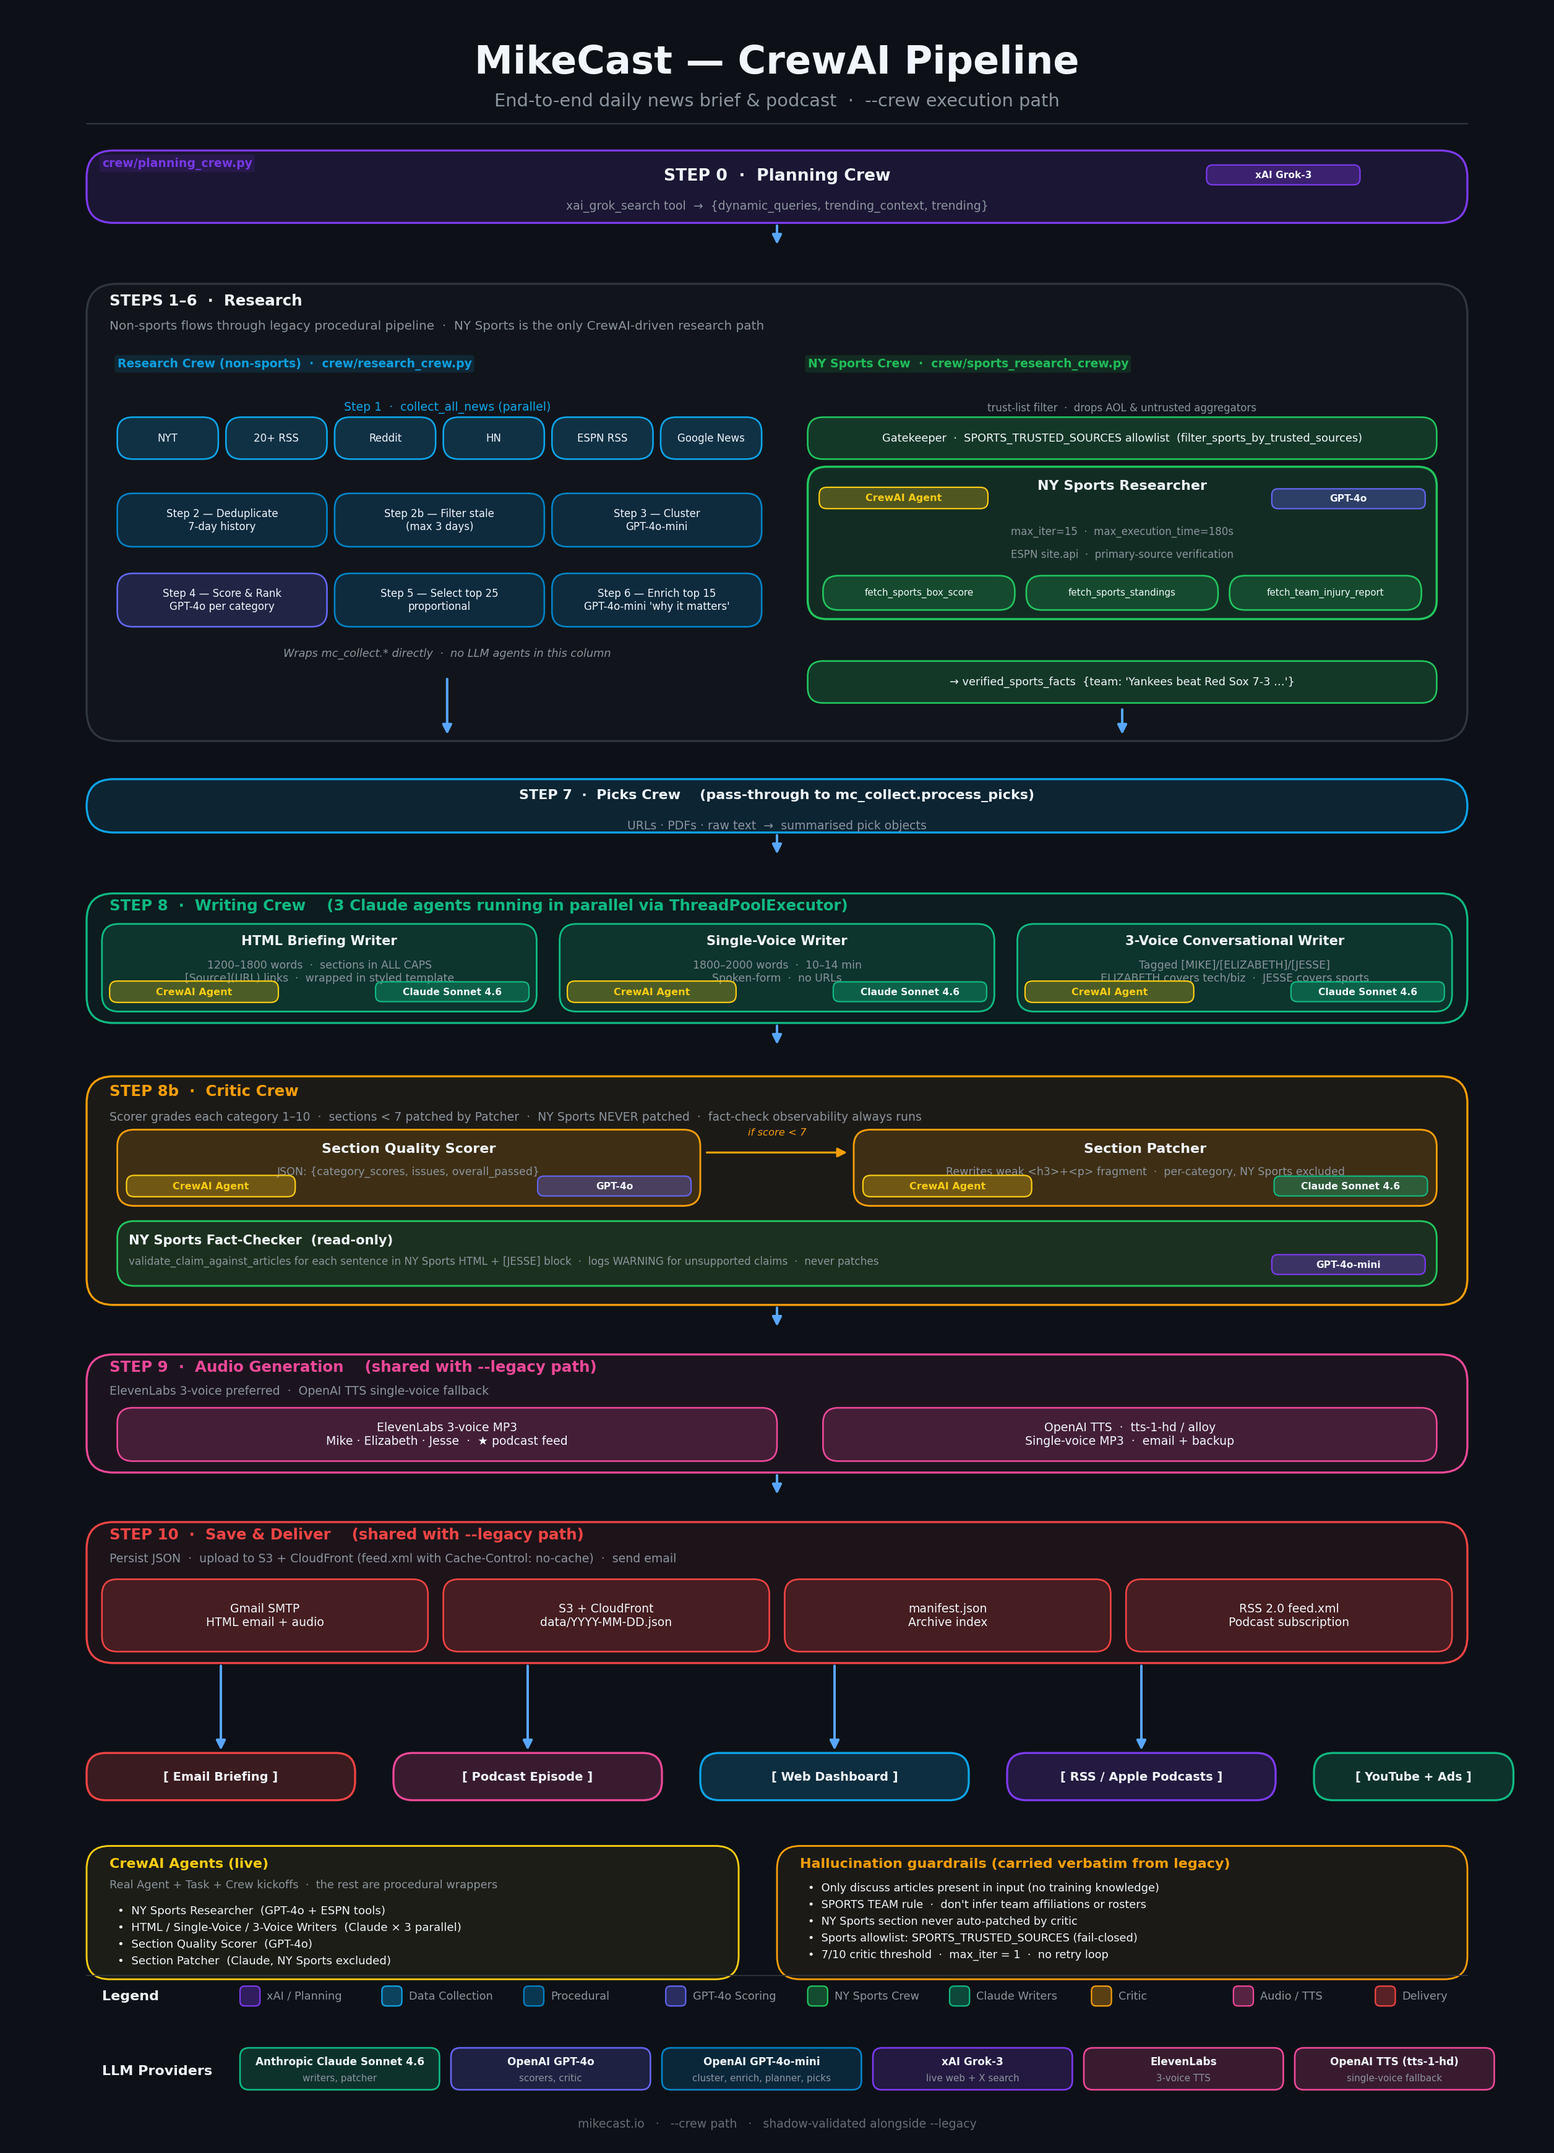
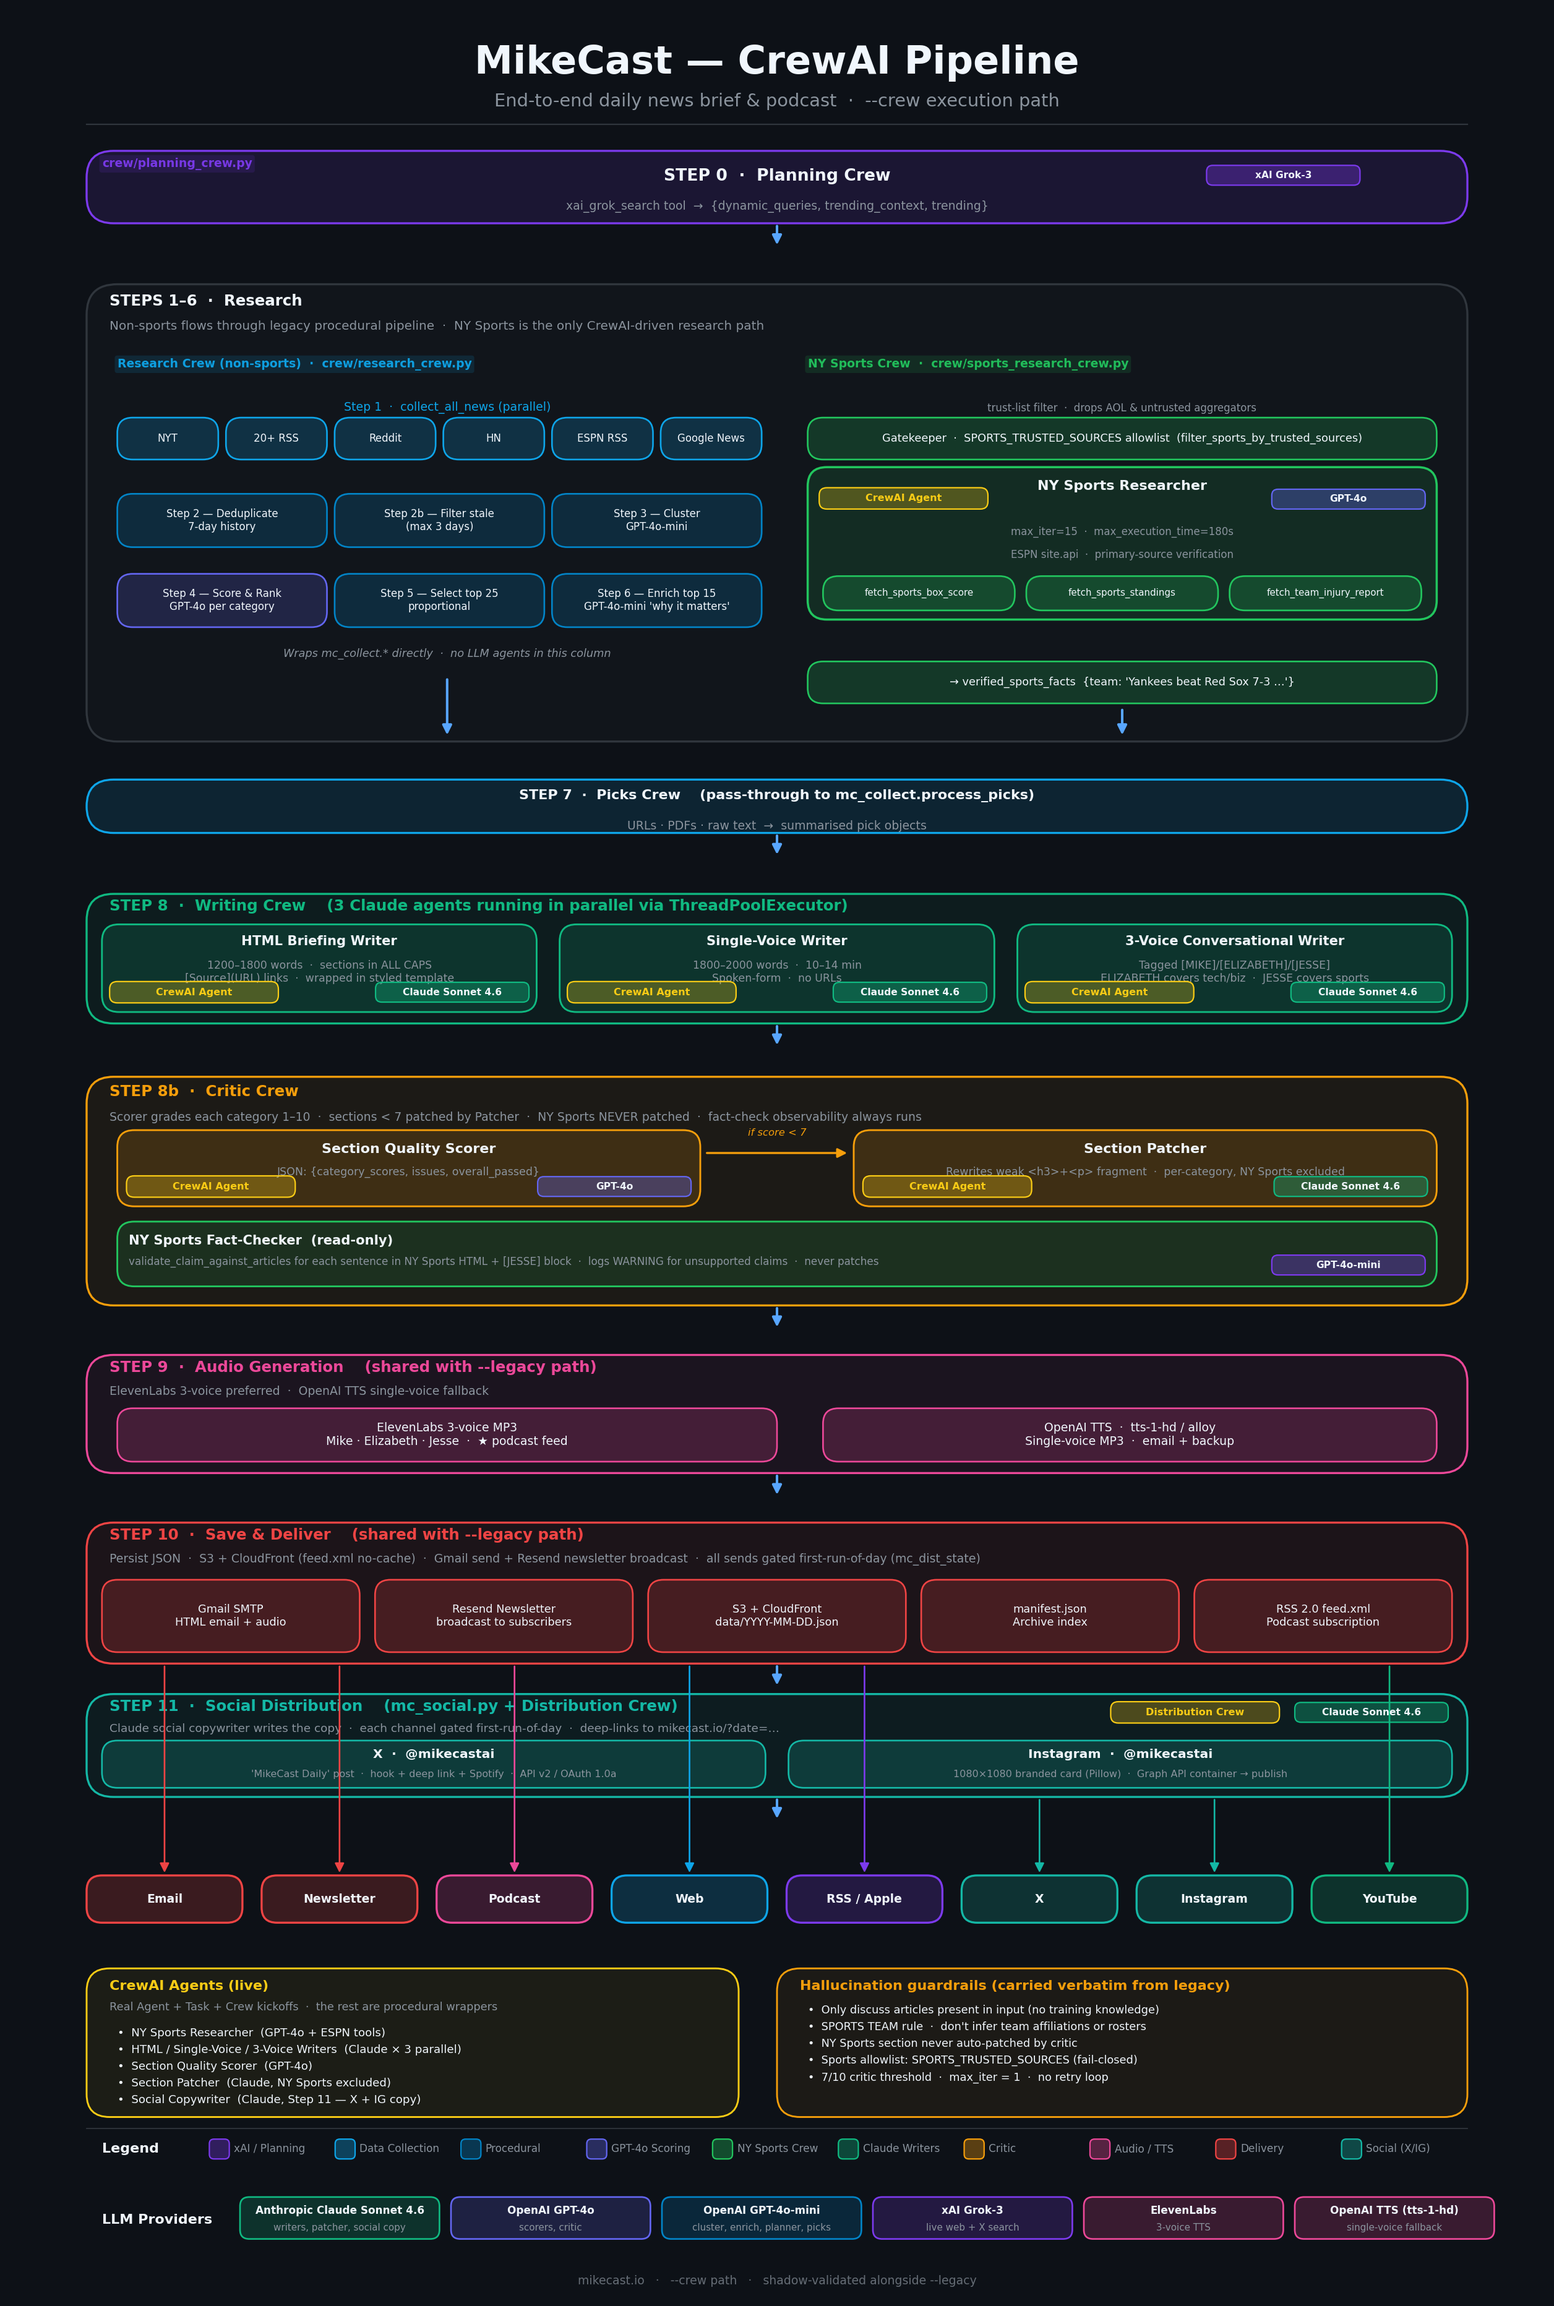
diagram: add Step 11 Social Distribution + Resend newsletter to CrewAI architecture
Regenerate mikecast_crewai_architecture.png: add the Step 11 Social Distribution
band (X + Instagram via the Distribution Crew / Claude copywriter), a Resend
Newsletter delivery box + first-run-of-day gating note on Step 10, X/Instagram
output chips, the Social Copywriter in the live-agents sidebar, a Social legend
entry, and the updated Claude provider role. Canvas extended for the new band.

diff --git a/make_crew_diagram.py b/make_crew_diagram.py
@@ -23,12 +23,14 @@ C_MUTED     = "#8b949e"
 C_WHITE     = "#f0f6fc"
 C_ARROW     = "#58a6ff"
 
-FIG_W, FIG_H = 20, 28
+C_SOCIAL    = "#14b8a6"   # teal    – social distribution (X + Instagram)
+
+FIG_W, FIG_H = 20, 30
 
 fig, ax = plt.subplots(figsize=(FIG_W, FIG_H), facecolor=BG)
 ax.set_facecolor(BG)
 ax.set_xlim(0, FIG_W)
-ax.set_ylim(0, FIG_H)
+ax.set_ylim(-2, 28)   # extra room at the bottom for Step 11 + repacked footer
 ax.axis("off")
 
 
@@ -427,62 +429,99 @@ ax.text(1.3, Y10 + del_h - 0.22,
         "STEP 10  ·  Save & Deliver    (shared with --legacy path)",
         fontsize=11, fontweight="bold", color=C_DELIVER, zorder=4)
 ax.text(1.3, Y10 + del_h - 0.52,
-        "Persist JSON  ·  upload to S3 + CloudFront (feed.xml with Cache-Control: no-cache)  ·  send email",
+        "Persist JSON  ·  S3 + CloudFront (feed.xml no-cache)  ·  Gmail send + Resend newsletter broadcast  ·  all sends gated first-run-of-day (mc_dist_state)",
         fontsize=8.5, color=C_MUTED, zorder=4)
 
 dels = [
     ("Gmail SMTP\nHTML email + audio", C_DELIVER),
+    ("Resend Newsletter\nbroadcast to subscribers", C_DELIVER),
     ("S3 + CloudFront\ndata/YYYY-MM-DD.json", C_DELIVER),
     ("manifest.json\nArchive index", C_DELIVER),
     ("RSS 2.0 feed.xml\nPodcast subscription", C_DELIVER),
 ]
-dw = (18 - 0.4 - 0.2 * 3) / 4
+dw = (18 - 0.4 - 0.2 * 4) / 5
 for i, (lbl, col) in enumerate(dels):
-    small_box(1.2 + i * (dw + 0.2), Y10 + 0.15, dw, 0.95, col, lbl, fontsize=8.5)
+    small_box(1.2 + i * (dw + 0.2), Y10 + 0.15, dw, 0.95, col, lbl, fontsize=8.0)
+
+arrow(FIG_W / 2, Y10, FIG_W / 2, Y10 - 0.32)
 
 
 # ══════════════════════════════════════════════════════════════════════════════
-# Final outputs
+# STEP 11 — Social Distribution (X + Instagram)
 # ══════════════════════════════════════════════════════════════════════════════
-Yout = 4.5
+Y11 = 4.55
+soc_h = 1.35
+rect = FancyBboxPatch(
+    (1.0, Y11), 18, soc_h,
+    boxstyle="round,pad=0,rounding_size=0.35",
+    linewidth=1.5, edgecolor=C_SOCIAL, facecolor=f"{C_SOCIAL}11", zorder=2,
+)
+ax.add_patch(rect)
+ax.text(1.3, Y11 + soc_h - 0.22,
+        "STEP 11  ·  Social Distribution    (mc_social.py + Distribution Crew)",
+        fontsize=11, fontweight="bold", color=C_SOCIAL, zorder=4)
+ax.text(1.3, Y11 + soc_h - 0.50,
+        "Claude social copywriter writes the copy  ·  each channel gated first-run-of-day  ·  deep-links to mikecast.io/?date=…",
+        fontsize=8.3, color=C_MUTED, zorder=4)
+
+# X + Instagram channel boxes
+socw = (18 - 0.4 - 0.3) / 2
+sxb = 1.2
+for i, (title, sub) in enumerate([
+    ("X  ·  @mikecastai", "'MikeCast Daily' post  ·  hook + deep link + Spotify  ·  API v2 / OAuth 1.0a"),
+    ("Instagram  ·  @mikecastai", "1080×1080 branded card (Pillow)  ·  Graph API container → publish"),
+]):
+    bx = sxb + i * (socw + 0.3)
+    by = Y11 + 0.12
+    small_box(bx, by, socw, 0.62, C_SOCIAL, "", fontsize=8)
+    ax.text(bx + socw / 2, by + 0.44, title,
+            ha="center", va="center", fontsize=9.2, fontweight="bold",
+            color=C_WHITE, zorder=6)
+    ax.text(bx + socw / 2, by + 0.18, sub,
+            ha="center", va="center", fontsize=7.2, color=C_MUTED, zorder=6)
+agent_badge(14.35, Y11 + soc_h - 0.38, "Distribution Crew")
+llm_badge(16.75, Y11 + soc_h - 0.37, "Claude Sonnet 4.6", C_GENERATE)
+
+arrow(FIG_W / 2, Y11, FIG_W / 2, Y11 - 0.32)
+
+
+# ══════════════════════════════════════════════════════════════════════════════
+# Final outputs (all channels)
+# ══════════════════════════════════════════════════════════════════════════════
+Yout = 2.9
 outs = [
-    (1.0,  "[ Email Briefing ]",     C_DELIVER),
-    (5.0,  "[ Podcast Episode ]",    C_AUDIO),
-    (9.0,  "[ Web Dashboard ]",      C_COLLECT),
-    (13.0, "[ RSS / Apple Podcasts ]", C_XAI),
+    ("Email",       C_DELIVER),
+    ("Newsletter",  C_DELIVER),
+    ("Podcast",     C_AUDIO),
+    ("Web",         C_COLLECT),
+    ("RSS / Apple", C_XAI),
+    ("X",           C_SOCIAL),
+    ("Instagram",   C_SOCIAL),
+    ("YouTube",     C_GENERATE),
 ]
-for x, lbl, col in outs:
-    arrow(x + 1.75, Y10, x + 1.75, Yout + 0.62)
-    w = 3.5
+n_out = len(outs)
+gap = 0.25
+ow = (18 - gap * (n_out - 1)) / n_out
+for i, (lbl, col) in enumerate(outs):
+    x = 1.0 + i * (ow + gap)
+    src_y = Y11 if col == C_SOCIAL else Y10
+    arrow(x + ow / 2, src_y, x + ow / 2, Yout + 0.62, color=f"{col}", lw=1.2)
     rect = FancyBboxPatch(
-        (x, Yout), w, 0.62,
-        boxstyle="round,pad=0,rounding_size=0.25",
+        (x, Yout), ow, 0.62,
+        boxstyle="round,pad=0,rounding_size=0.2",
         linewidth=1.5, edgecolor=col, facecolor=f"{col}33", zorder=3,
     )
     ax.add_patch(rect)
-    ax.text(x + w / 2, Yout + 0.31, lbl,
-            ha="center", va="center", fontsize=8.8, fontweight="bold",
+    ax.text(x + ow / 2, Yout + 0.31, lbl,
+            ha="center", va="center", fontsize=8.5, fontweight="bold",
             color=C_WHITE, zorder=4)
-
-# YouTube/social (separate downstream)
-x = 17.0
-w = 2.6
-rect = FancyBboxPatch(
-    (x, Yout), w, 0.62,
-    boxstyle="round,pad=0,rounding_size=0.25",
-    linewidth=1.5, edgecolor=C_GENERATE, facecolor=f"{C_GENERATE}33", zorder=3,
-)
-ax.add_patch(rect)
-ax.text(x + w / 2, Yout + 0.31, "[ YouTube + Ads ]",
-        ha="center", va="center", fontsize=8.5, fontweight="bold",
-        color=C_WHITE, zorder=4)
 
 
 # ══════════════════════════════════════════════════════════════════════════════
 # Sidebar: where the real CrewAI agents live
 # ══════════════════════════════════════════════════════════════════════════════
-Ysb_top = 3.9
-sb_h = 1.75
+Ysb_top = 2.3
+sb_h = 1.95
 rect = FancyBboxPatch(
     (1.0, Ysb_top - sb_h), 8.5, sb_h,
     boxstyle="round,pad=0,rounding_size=0.3",
@@ -500,6 +539,7 @@ live_agents = [
     "•  HTML / Single-Voice / 3-Voice Writers  (Claude × 3 parallel)",
     "•  Section Quality Scorer  (GPT-4o)",
     "•  Section Patcher  (Claude, NY Sports excluded)",
+    "•  Social Copywriter  (Claude, Step 11 — X + IG copy)",
 ]
 for i, line in enumerate(live_agents):
     ax.text(1.4, Ysb_top - 0.85 - i * 0.22, line,
@@ -531,7 +571,7 @@ for i, line in enumerate(inv):
 # ══════════════════════════════════════════════════════════════════════════════
 # Legend
 # ══════════════════════════════════════════════════════════════════════════════
-Yleg = 1.65
+Yleg = -0.35
 ax.plot([1, 19], [Yleg + 0.55, Yleg + 0.55], color=BORDER, lw=0.8, zorder=3)
 ax.text(1.2, Yleg + 0.28, "Legend",
         ha="left", va="center", fontsize=10, fontweight="bold", color=C_WHITE)
@@ -546,8 +586,9 @@ legend_items = [
     (C_CRITIC,  "Critic"),
     (C_AUDIO,   "Audio / TTS"),
     (C_DELIVER, "Delivery"),
+    (C_SOCIAL,  "Social (X/IG)"),
 ]
-lx = 3.0
+lx = 2.6
 ly = Yleg + 0.28
 for col, lbl in legend_items:
     rect = FancyBboxPatch(
@@ -556,17 +597,17 @@ for col, lbl in legend_items:
         linewidth=1, edgecolor=col, facecolor=f"{col}55", zorder=4,
     )
     ax.add_patch(rect)
-    ax.text(lx + 0.35, ly, lbl, ha="left", va="center",
-            fontsize=8, color=C_MUTED, zorder=4)
-    lx += 1.85
+    ax.text(lx + 0.32, ly, lbl, ha="left", va="center",
+            fontsize=7.6, color=C_MUTED, zorder=4)
+    lx += 1.64
 
 
 # Provider badges row
-Ypb = 0.75
+Ypb = -1.2
 ax.text(1.2, Ypb + 0.20, "LLM Providers",
         ha="left", va="center", fontsize=10, fontweight="bold", color=C_WHITE)
 providers = [
-    ("Anthropic Claude Sonnet 4.6", C_GENERATE, "writers, patcher"),
+    ("Anthropic Claude Sonnet 4.6", C_GENERATE, "writers, patcher, social copy"),
     ("OpenAI GPT-4o",               C_SCORE,    "scorers, critic"),
     ("OpenAI GPT-4o-mini",          C_PROCESS,  "cluster, enrich, planner, picks"),
     ("xAI Grok-3",                  C_XAI,      "live web + X search"),
@@ -590,7 +631,7 @@ for name, col, role in providers:
 
 
 # ── watermark ─────────────────────────────────────────────────────────────────
-ax.text(FIG_W / 2, 0.25,
+ax.text(FIG_W / 2, -1.8,
         "mikecast.io   ·   --crew path   ·   shadow-validated alongside --legacy",
         ha="center", va="center", fontsize=8.5, color=C_MUTED, alpha=0.7)
 
